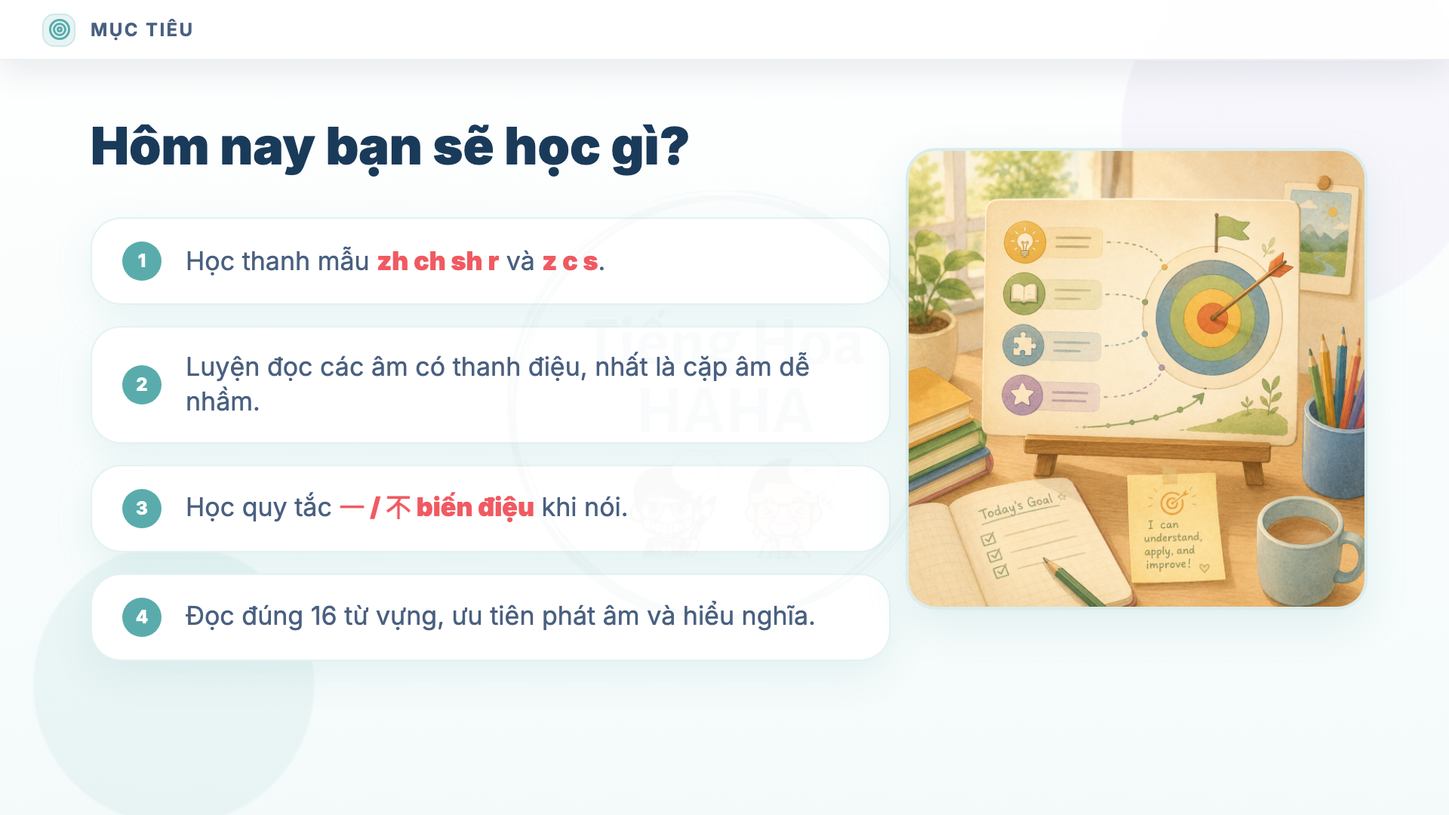
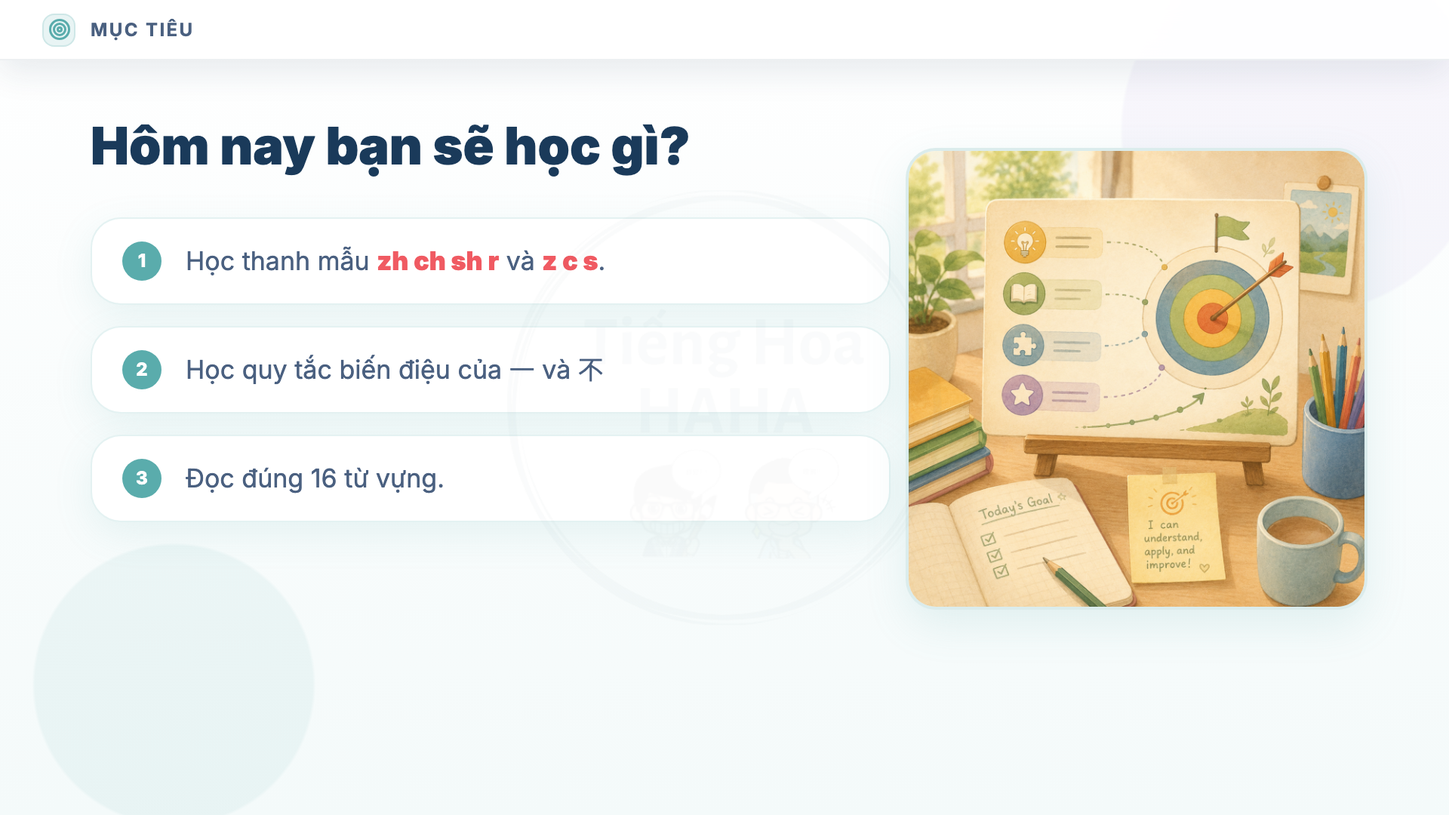
updated images of pinyin lesson 3

Changed region(s): [[0.0625, 0.4278, 0.5938, 0.6417], [0.0625, 0.7333, 0.5625, 0.7944]]

diff --git a/output/pinyin/pinyin-03/slides/44-summary-21-initials.html b/output/pinyin/pinyin-03/slides/44-summary-21-initials.html
@@ -1,4 +1,4 @@
-<!DOCTYPE html><html lang="vi"><head><meta charset="UTF-8"><meta name="viewport" content="width=960,height=540"><title>21 thanh mẫu</title><link href="https://fonts.googleapis.com/css2?family=Inter:wght@400;500;600;700;800;900&family=Noto+Sans+SC:wght@400;700;900&display=swap" rel="stylesheet"><script src="https://unpkg.com/lucide@0.460.0/dist/umd/lucide.min.js"></script><link rel="stylesheet" href="assets/slide-base.css"><style>
+<!DOCTYPE html><html lang="vi"><head><meta charset="UTF-8"><meta name="viewport" content="width=960,height=540"><title>Bảng tổng hợp thanh mẫu pinyin 声母总表</title><link href="https://fonts.googleapis.com/css2?family=Inter:wght@400;500;600;700;800;900&family=Noto+Sans+SC:wght@400;700;900&display=swap" rel="stylesheet"><script src="https://unpkg.com/lucide@0.460.0/dist/umd/lucide.min.js"></script><link rel="stylesheet" href="assets/slide-base.css"><style>
 .content{position:absolute;left:58px;right:58px;top:68px;bottom:42px}
 .title-xl{font-size:34px;line-height:1.12;font-weight:900;color:#1A3A5A}.title-md{font-size:27px;line-height:1.16;font-weight:900;color:#1A3A5A}
 .muted{color:#5F7088}.teal{color:#5AACAC}.purple{color:#7C6BC8}.amber{color:#D59A2A}.red{color:#D85A6A}
@@ -28,4 +28,4 @@
 .listen-head{display:flex;align-items:center;justify-content:center;margin-bottom:16px;text-align:center}.listen-title{font-size:34px;font-weight:900;color:#1A3A5A;line-height:1.14}.final-bank{width:760px;margin:10px auto 22px;background:rgba(255,255,255,.86);border:1px solid rgba(90,172,172,.16);border-radius:16px;text-align:center;padding:10px 18px;box-shadow:0 6px 20px rgba(90,172,172,.08)}.final-bank-title{font-size:18px;color:#5F7088;font-weight:800;margin-bottom:6px}.finals{display:flex;justify-content:space-around;font-size:25px;font-weight:900;color:#3B7DB4}.listen-grid{width:760px;margin:0 auto;display:grid;grid-template-columns:repeat(3,1fr);column-gap:58px;row-gap:24px}.listen-item{font-size:28px;color:#202530;line-height:1.1;white-space:nowrap}.listen-no{font-size:26px;margin-right:8px;color:#202530}.blank{display:inline-block;width:52px;border-bottom:3px solid #202530;transform:translateY(-3px);margin:0 4px}.blank.short{width:44px}.initial-cue{display:inline-block;min-width:48px;text-align:center;font-weight:900;color:#1A3A5A;margin-right:4px}.answer-red{color:#F05A62;font-weight:950}.tone-cued{position:relative;display:inline-block;line-height:1;margin:0 1px;padding-top:12px;vertical-align:baseline}.tone-cue{position:absolute;top:0;left:50%;transform:translateX(-50%);font-size:12px;line-height:1;color:#8A9AB0;font-weight:900;white-space:nowrap}.tone-letter{line-height:1}
 
 .rule-center{position:absolute;left:60px;right:60px;top:92px;bottom:54px;display:flex;flex-direction:column;align-items:center;justify-content:center}.rule-center .title-xl{text-align:center;margin-bottom:28px}.rule-grid{width:100%;display:grid;grid-template-columns:repeat(3,1fr);gap:18px}.rule-card{height:154px;display:grid;grid-template-columns:1fr auto 1fr;align-items:center;justify-items:center;text-align:center;gap:10px}.rule-card .from,.rule-card .to{font-size:46px;line-height:1;font-weight:950;color:#1A3A5A}.rule-card .from{color:#7C6BC8}.rule-card .arrow{font-size:34px;font-weight:950;color:#5AACAC}.closing{position:relative;overflow:hidden;background:linear-gradient(112deg,#F5FAF4 0%,#FFFFFF 46%,#DFF1E8 100%)}.closing:before{content:"";position:absolute;left:34px;top:24px;width:300px;height:246px;border-radius:54% 46% 44% 56%;background:rgba(149,212,187,.23);z-index:0}.closing:after{content:"";position:absolute;right:-54px;bottom:-108px;width:372px;height:294px;border-radius:55% 45% 50% 50%;background:rgba(149,212,187,.20);z-index:0}.closing-card-ref{position:absolute;left:96px;right:84px;top:88px;bottom:62px;border-radius:34px;background:rgba(255,255,255,.96);box-shadow:0 18px 34px rgba(36,50,74,.18);z-index:1;display:flex;flex-direction:column;align-items:center;justify-content:center;text-align:center;padding-left:164px}.closing-door{position:absolute;left:-36px;top:-64px;width:290px;height:266px;object-fit:contain;z-index:2;filter:drop-shadow(0 6px 10px rgba(36,50,74,.10))}.closing-zh{font-family:'Noto Sans SC';font-size:84pt;line-height:.92;font-weight:900;color:#143C68;letter-spacing:0}.closing-sub{margin-top:30px;font-size:29pt;line-height:1.1;font-weight:900;color:#7BC6A7}.closing-next{margin-top:22px;font-size:17pt;line-height:1.25;font-weight:700;color:#6B6F76}
-.summary-content{top:80px}.summary-title{text-align:center;font-size:33px;line-height:1.1;font-weight:900;color:#1A3A5A;margin-bottom:22px}.summary-grid{display:grid;grid-template-columns:repeat(2,1fr);gap:14px 18px}.summary-group{height:84px;display:flex;align-items:center;gap:18px}.summary-no{width:34px;height:34px;border-radius:50%;background:#5AACAC;color:#fff;display:flex;align-items:center;justify-content:center;font-size:15px;font-weight:900;flex:none}.summary-row{display:flex;align-items:center;gap:18px;flex-wrap:wrap}.summary-row span{font-size:34px;line-height:1;font-weight:900;color:#1A3A5A}</style></head><body><div class="slide"><div class="menu-bar"><span class="menu-icon"><i data-lucide="table-2"></i></span><span class="section-label">Bảng tổng hợp</span></div><div class="content summary-content"><div class="summary-title">21 thanh mẫu tiếng Trung</div><div class="summary-grid"><div class="soft-card summary-group"><div class="summary-no">1</div><div class="summary-row"><span>b</span><span>p</span><span>m</span><span>f</span></div></div><div class="soft-card summary-group"><div class="summary-no">2</div><div class="summary-row"><span>d</span><span>t</span><span>n</span><span>l</span></div></div><div class="soft-card summary-group"><div class="summary-no">3</div><div class="summary-row"><span>g</span><span>k</span><span>h</span></div></div><div class="soft-card summary-group"><div class="summary-no">4</div><div class="summary-row"><span>j</span><span>q</span><span>x</span></div></div><div class="soft-card summary-group"><div class="summary-no">5</div><div class="summary-row"><span>zh</span><span>ch</span><span>sh</span><span>r</span></div></div><div class="soft-card summary-group"><div class="summary-no">6</div><div class="summary-row"><span>z</span><span>c</span><span>s</span></div></div></div></div></div><script src="assets/slide-base.js"></script></body></html>
+.summary-table-wrap{position:absolute;left:52px;right:52px;top:70px;bottom:34px}.summary-table-card{height:100%;border-radius:24px;background:linear-gradient(180deg,#FFFFFF 0%,#F7FBFB 100%);border:2px solid rgba(90,172,172,.18);box-shadow:0 14px 34px rgba(26,58,90,.12);padding:14px;box-sizing:border-box}.summary-table{width:100%;height:100%;border-collapse:separate;border-spacing:0 6px;table-layout:fixed}.summary-table th{width:242px;border-radius:17px 0 0 17px;text-align:left;padding:0 18px;color:#1A3A5A;vertical-align:middle}.summary-table th span{display:block;font-size:19px;line-height:1.08;font-weight:900;white-space:nowrap}.summary-table th small{display:block;margin-top:4px;font-family:'Noto Sans SC';font-size:16px;line-height:1;font-weight:900;color:rgba(26,58,90,.62)}.summary-table td{border-radius:0 17px 17px 0;background:#fff;border:1px solid rgba(90,172,172,.14);border-left:0;padding:5px 18px;display:flex;align-items:center;gap:15px;box-sizing:border-box}.summary-table td span{min-width:72px;height:43px;border-radius:14px;background:#FFFFFF;border:1px solid rgba(26,58,90,.10);display:inline-flex;align-items:center;justify-content:center;font-size:31px;line-height:1;font-weight:950;color:#1A3A5A;box-shadow:0 5px 12px rgba(26,58,90,.06)}.summary-table tr.blue th{background:#DDEBF8}.summary-table tr.green th{background:#E4F1E6}.summary-table tr.purple th{background:#EEE8F8}.summary-table tr.amber th{background:#FFF0D2}.summary-table tr.rose th{background:#F9E3EA}.summary-table tr.teal th{background:#DDF1F0}.summary-table tr.blue td{background:#F6FAFE}.summary-table tr.green td{background:#F7FBF7}.summary-table tr.purple td{background:#FAF8FE}.summary-table tr.amber td{background:#FFFCF5}.summary-table tr.rose td{background:#FDF7F9}.summary-table tr.teal td{background:#F6FCFC}</style></head><body><div class="slide"><div class="menu-bar"><span class="menu-icon"><i data-lucide="table-2"></i></span><span class="section-label">Bảng tổng hợp</span></div><div class="summary-table-wrap"><div class="summary-table-card"><table class="summary-table"><tbody><tr class="blue"><th><span>Âm môi</span><small>双唇音</small></th><td><span>b</span><span>p</span><span>m</span><span>f</span></td></tr><tr class="green"><th><span>Âm đầu lưỡi</span><small>舌尖音</small></th><td><span>d</span><span>t</span><span>n</span><span>l</span></td></tr><tr class="purple"><th><span>Âm gốc lưỡi</span><small>舌根音</small></th><td><span>g</span><span>k</span><span>h</span></td></tr><tr class="amber"><th><span>Âm mặt lưỡi</span><small>舌面音</small></th><td><span>j</span><span>q</span><span>x</span></td></tr><tr class="rose"><th><span>Âm uốn lưỡi</span><small>翘舌音</small></th><td><span>zh</span><span>ch</span><span>sh</span><span>r</span></td></tr><tr class="teal"><th><span>Âm đầu lưỡi trước</span><small>平舌音</small></th><td><span>z</span><span>c</span><span>s</span></td></tr></tbody></table></div></div></div><script src="assets/slide-base.js"></script></body></html>

diff --git a/output/pinyin/pinyin-03/slides/38-rule-yi-first-tone.html b/output/pinyin/pinyin-03/slides/38-rule-yi-first-tone.html
@@ -28,4 +28,4 @@
 .listen-head{display:flex;align-items:center;justify-content:center;margin-bottom:16px;text-align:center}.listen-title{font-size:34px;font-weight:900;color:#1A3A5A;line-height:1.14}.final-bank{width:760px;margin:10px auto 22px;background:rgba(255,255,255,.86);border:1px solid rgba(90,172,172,.16);border-radius:16px;text-align:center;padding:10px 18px;box-shadow:0 6px 20px rgba(90,172,172,.08)}.final-bank-title{font-size:18px;color:#5F7088;font-weight:800;margin-bottom:6px}.finals{display:flex;justify-content:space-around;font-size:25px;font-weight:900;color:#3B7DB4}.listen-grid{width:760px;margin:0 auto;display:grid;grid-template-columns:repeat(3,1fr);column-gap:58px;row-gap:24px}.listen-item{font-size:28px;color:#202530;line-height:1.1;white-space:nowrap}.listen-no{font-size:26px;margin-right:8px;color:#202530}.blank{display:inline-block;width:52px;border-bottom:3px solid #202530;transform:translateY(-3px);margin:0 4px}.blank.short{width:44px}.initial-cue{display:inline-block;min-width:48px;text-align:center;font-weight:900;color:#1A3A5A;margin-right:4px}.answer-red{color:#F05A62;font-weight:950}.tone-cued{position:relative;display:inline-block;line-height:1;margin:0 1px;padding-top:12px;vertical-align:baseline}.tone-cue{position:absolute;top:0;left:50%;transform:translateX(-50%);font-size:12px;line-height:1;color:#8A9AB0;font-weight:900;white-space:nowrap}.tone-letter{line-height:1}
 
 .rule-center{position:absolute;left:60px;right:60px;top:92px;bottom:54px;display:flex;flex-direction:column;align-items:center;justify-content:center}.rule-center .title-xl{text-align:center;margin-bottom:28px}.rule-grid{width:100%;display:grid;grid-template-columns:repeat(3,1fr);gap:18px}.rule-card{height:154px;display:grid;grid-template-columns:1fr auto 1fr;align-items:center;justify-items:center;text-align:center;gap:10px}.rule-card .from,.rule-card .to{font-size:46px;line-height:1;font-weight:950;color:#1A3A5A}.rule-card .from{color:#7C6BC8}.rule-card .arrow{font-size:34px;font-weight:950;color:#5AACAC}.closing{position:relative;overflow:hidden;background:linear-gradient(112deg,#F5FAF4 0%,#FFFFFF 46%,#DFF1E8 100%)}.closing:before{content:"";position:absolute;left:34px;top:24px;width:300px;height:246px;border-radius:54% 46% 44% 56%;background:rgba(149,212,187,.23);z-index:0}.closing:after{content:"";position:absolute;right:-54px;bottom:-108px;width:372px;height:294px;border-radius:55% 45% 50% 50%;background:rgba(149,212,187,.20);z-index:0}.closing-card-ref{position:absolute;left:96px;right:84px;top:88px;bottom:62px;border-radius:34px;background:rgba(255,255,255,.96);box-shadow:0 18px 34px rgba(36,50,74,.18);z-index:1;display:flex;flex-direction:column;align-items:center;justify-content:center;text-align:center;padding-left:164px}.closing-door{position:absolute;left:-36px;top:-64px;width:290px;height:266px;object-fit:contain;z-index:2;filter:drop-shadow(0 6px 10px rgba(36,50,74,.10))}.closing-zh{font-family:'Noto Sans SC';font-size:84pt;line-height:.92;font-weight:900;color:#143C68;letter-spacing:0}.closing-sub{margin-top:30px;font-size:29pt;line-height:1.1;font-weight:900;color:#7BC6A7}.closing-next{margin-top:22px;font-size:17pt;line-height:1.25;font-weight:700;color:#6B6F76}
-.yi-first-content{top:86px}.yi-first-title{font-size:52px;line-height:1;font-weight:900;color:#1A3A5A;text-align:left}.yi-first-title span{font-family:'Noto Sans SC';color:#D85A6A}.yi-first-title b{color:#D85A6A}.yi-first-grid{display:grid;grid-template-columns:1fr 1fr;gap:22px;margin-top:24px}.yi-first-card{height:300px;padding:24px 26px}.yi-first-card-title{font-size:30px;line-height:1.1;font-weight:900;color:#1A3A5A}.yi-first-note{font-size:17px;line-height:1.35;font-weight:800;color:#5F7088;margin-top:8px}.yi-first-examples{display:flex;flex-direction:column;gap:12px;margin-top:18px}.yi-first-example{height:54px;border-radius:14px;background:#F7FBFB;border:1px solid rgba(90,172,172,.28);display:flex;align-items:center;justify-content:space-between;padding:0 18px}.yi-first-example .pin{font-size:21px;line-height:1;font-weight:900;color:#D85A6A}.yi-first-example .han{font-family:'Noto Sans SC';font-size:28px;line-height:1;font-weight:900;color:#1A3A5A}</style></head><body><div class="slide"><div class="menu-bar"><span class="menu-icon"><i data-lucide="wand-sparkles"></i></span><span class="section-label">Biến điệu</span></div><div class="content yi-first-content"><div class="yi-first-title">Khi nào <span>一</span> đọc thanh 1?</div><div class="yi-first-grid"><div class="soft-card yi-first-card"><div class="yi-first-card-title">Đọc thứ tự</div><div class="yi-first-note">Từ chỉ thứ tự.</div><div class="yi-first-examples"><div class="yi-first-example"><div class="pin">xīngqīyī</div><div class="han">星期一</div></div><div class="yi-first-example"><div class="pin">dìyī</div><div class="han">第一</div></div><div class="yi-first-example"><div class="pin">yīlóu</div><div class="han">一楼</div></div></div></div><div class="soft-card yi-first-card"><div class="yi-first-card-title">Đọc từng số</div><div class="yi-first-note">Khi đọc số điện thoại, năm, mã số.</div><div class="yi-first-examples"><div class="yi-first-example"><div class="pin">yī, sān, jiǔ...</div><div class="han">1, 3, 9...</div></div><div class="yi-first-example"><div class="pin">èr líng yī liù</div><div class="han">2016</div></div></div></div></div></div></div><script src="assets/slide-base.js"></script></body></html>
+.yi-first-content{top:90px}.yi-first-title{font-size:34px;line-height:1.1;font-weight:900;color:#1A3A5A;text-align:left}.yi-first-title span{font-family:'Noto Sans SC';color:#D85A6A}.yi-first-title b{color:#D85A6A}.yi-first-grid{display:grid;grid-template-columns:1fr 1fr;gap:20px;margin-top:20px}.yi-first-card{height:268px;padding:20px 22px}.yi-first-card-title{font-size:22px;line-height:1.12;font-weight:900;color:#1A3A5A}.yi-first-note{font-size:14px;line-height:1.35;font-weight:750;color:#5F7088;margin-top:7px}.yi-first-examples{display:flex;flex-direction:column;gap:9px;margin-top:14px}.yi-first-example{height:43px;border-radius:13px;background:#F7FBFB;border:1px solid rgba(90,172,172,.28);display:flex;align-items:center;justify-content:space-between;padding:0 15px}.yi-first-example .pin{font-size:16px;line-height:1;font-weight:850;color:#D85A6A}.yi-first-example .han{font-family:'Noto Sans SC';font-size:22px;line-height:1;font-weight:900;color:#1A3A5A}</style></head><body><div class="slide"><div class="menu-bar"><span class="menu-icon"><i data-lucide="wand-sparkles"></i></span><span class="section-label">Biến điệu</span></div><div class="content yi-first-content"><div class="yi-first-title">Khi nào <span>一</span> đọc thanh 1?</div><div class="yi-first-grid"><div class="soft-card yi-first-card"><div class="yi-first-card-title">Đọc thứ tự</div><div class="yi-first-note">Từ chỉ thứ tự.</div><div class="yi-first-examples"><div class="yi-first-example"><div class="pin">xīngqīyī</div><div class="han">星期一</div></div><div class="yi-first-example"><div class="pin">dìyī</div><div class="han">第一</div></div><div class="yi-first-example"><div class="pin">yīlóu</div><div class="han">一楼</div></div></div></div><div class="soft-card yi-first-card"><div class="yi-first-card-title">Đọc từng số</div><div class="yi-first-note">Khi đọc số điện thoại, năm, mã số.</div><div class="yi-first-examples"><div class="yi-first-example"><div class="pin">yī, sān, jiǔ...</div><div class="han">1, 3, 9...</div></div><div class="yi-first-example"><div class="pin">èr líng yī liù</div><div class="han">2016</div></div></div></div></div></div></div><script src="assets/slide-base.js"></script></body></html>

diff --git a/output/pinyin/pinyin-03/slides/43-divider-summary-initials.html b/output/pinyin/pinyin-03/slides/43-divider-summary-initials.html
@@ -1,4 +1,4 @@
-<!DOCTYPE html><html lang="vi"><head><meta charset="UTF-8"><meta name="viewport" content="width=960,height=540"><title>21 thanh mẫu</title><link href="https://fonts.googleapis.com/css2?family=Inter:wght@400;500;600;700;800;900&family=Noto+Sans+SC:wght@400;700;900&display=swap" rel="stylesheet"><script src="https://unpkg.com/lucide@0.460.0/dist/umd/lucide.min.js"></script><link rel="stylesheet" href="assets/slide-base.css"><style>
+<!DOCTYPE html><html lang="vi"><head><meta charset="UTF-8"><meta name="viewport" content="width=960,height=540"><title>Bảng tổng hợp thanh mẫu pinyin 声母总表</title><link href="https://fonts.googleapis.com/css2?family=Inter:wght@400;500;600;700;800;900&family=Noto+Sans+SC:wght@400;700;900&display=swap" rel="stylesheet"><script src="https://unpkg.com/lucide@0.460.0/dist/umd/lucide.min.js"></script><link rel="stylesheet" href="assets/slide-base.css"><style>
 .content{position:absolute;left:58px;right:58px;top:68px;bottom:42px}
 .title-xl{font-size:34px;line-height:1.12;font-weight:900;color:#1A3A5A}.title-md{font-size:27px;line-height:1.16;font-weight:900;color:#1A3A5A}
 .muted{color:#5F7088}.teal{color:#5AACAC}.purple{color:#7C6BC8}.amber{color:#D59A2A}.red{color:#D85A6A}
@@ -28,4 +28,4 @@
 .listen-head{display:flex;align-items:center;justify-content:center;margin-bottom:16px;text-align:center}.listen-title{font-size:34px;font-weight:900;color:#1A3A5A;line-height:1.14}.final-bank{width:760px;margin:10px auto 22px;background:rgba(255,255,255,.86);border:1px solid rgba(90,172,172,.16);border-radius:16px;text-align:center;padding:10px 18px;box-shadow:0 6px 20px rgba(90,172,172,.08)}.final-bank-title{font-size:18px;color:#5F7088;font-weight:800;margin-bottom:6px}.finals{display:flex;justify-content:space-around;font-size:25px;font-weight:900;color:#3B7DB4}.listen-grid{width:760px;margin:0 auto;display:grid;grid-template-columns:repeat(3,1fr);column-gap:58px;row-gap:24px}.listen-item{font-size:28px;color:#202530;line-height:1.1;white-space:nowrap}.listen-no{font-size:26px;margin-right:8px;color:#202530}.blank{display:inline-block;width:52px;border-bottom:3px solid #202530;transform:translateY(-3px);margin:0 4px}.blank.short{width:44px}.initial-cue{display:inline-block;min-width:48px;text-align:center;font-weight:900;color:#1A3A5A;margin-right:4px}.answer-red{color:#F05A62;font-weight:950}.tone-cued{position:relative;display:inline-block;line-height:1;margin:0 1px;padding-top:12px;vertical-align:baseline}.tone-cue{position:absolute;top:0;left:50%;transform:translateX(-50%);font-size:12px;line-height:1;color:#8A9AB0;font-weight:900;white-space:nowrap}.tone-letter{line-height:1}
 
 .rule-center{position:absolute;left:60px;right:60px;top:92px;bottom:54px;display:flex;flex-direction:column;align-items:center;justify-content:center}.rule-center .title-xl{text-align:center;margin-bottom:28px}.rule-grid{width:100%;display:grid;grid-template-columns:repeat(3,1fr);gap:18px}.rule-card{height:154px;display:grid;grid-template-columns:1fr auto 1fr;align-items:center;justify-items:center;text-align:center;gap:10px}.rule-card .from,.rule-card .to{font-size:46px;line-height:1;font-weight:950;color:#1A3A5A}.rule-card .from{color:#7C6BC8}.rule-card .arrow{font-size:34px;font-weight:950;color:#5AACAC}.closing{position:relative;overflow:hidden;background:linear-gradient(112deg,#F5FAF4 0%,#FFFFFF 46%,#DFF1E8 100%)}.closing:before{content:"";position:absolute;left:34px;top:24px;width:300px;height:246px;border-radius:54% 46% 44% 56%;background:rgba(149,212,187,.23);z-index:0}.closing:after{content:"";position:absolute;right:-54px;bottom:-108px;width:372px;height:294px;border-radius:55% 45% 50% 50%;background:rgba(149,212,187,.20);z-index:0}.closing-card-ref{position:absolute;left:96px;right:84px;top:88px;bottom:62px;border-radius:34px;background:rgba(255,255,255,.96);box-shadow:0 18px 34px rgba(36,50,74,.18);z-index:1;display:flex;flex-direction:column;align-items:center;justify-content:center;text-align:center;padding-left:164px}.closing-door{position:absolute;left:-36px;top:-64px;width:290px;height:266px;object-fit:contain;z-index:2;filter:drop-shadow(0 6px 10px rgba(36,50,74,.10))}.closing-zh{font-family:'Noto Sans SC';font-size:84pt;line-height:.92;font-weight:900;color:#143C68;letter-spacing:0}.closing-sub{margin-top:30px;font-size:29pt;line-height:1.1;font-weight:900;color:#7BC6A7}.closing-next{margin-top:22px;font-size:17pt;line-height:1.25;font-weight:700;color:#6B6F76}
-</style></head><body><div class="slide"><div class="menu-bar"><span class="menu-icon"><i data-lucide="table-2"></i></span><span class="section-label">BẢNG TỔNG HỢP</span></div><div class="divider-left"><div class="divider-kicker">BẢNG TỔNG HỢP</div><div class="divider-zh">总表</div><div class="divider-line"></div></div><div class="divider-photo"><img src="assets/photos/divider-sounds.png" alt=""></div></div><script src="assets/slide-base.js"></script></body></html>
+.divider-summary-special .divider-kicker{font-size:21px;line-height:1.16;text-transform:none;letter-spacing:0;max-width:390px}.divider-summary-special .divider-zh{font-size:56px;white-space:nowrap}</style></head><body><div class="slide"><div class="menu-bar"><span class="menu-icon"><i data-lucide="table-2"></i></span><span class="section-label">Bảng tổng hợp</span></div><div class="divider-left divider-summary-special"><div class="divider-kicker">bảng tổng hợp thanh mẫu pinyin</div><div class="divider-zh">声母总表</div><div class="divider-line"></div></div><div class="divider-photo"><img src="assets/photos/divider-pinyin-summary-pinyin-03.png" alt=""></div></div><script src="assets/slide-base.js"></script></body></html>

diff --git a/output/pinyin/pinyin-03/slides/02-objectives.html b/output/pinyin/pinyin-03/slides/02-objectives.html
@@ -28,4 +28,4 @@
 .listen-head{display:flex;align-items:center;justify-content:center;margin-bottom:16px;text-align:center}.listen-title{font-size:34px;font-weight:900;color:#1A3A5A;line-height:1.14}.final-bank{width:760px;margin:10px auto 22px;background:rgba(255,255,255,.86);border:1px solid rgba(90,172,172,.16);border-radius:16px;text-align:center;padding:10px 18px;box-shadow:0 6px 20px rgba(90,172,172,.08)}.final-bank-title{font-size:18px;color:#5F7088;font-weight:800;margin-bottom:6px}.finals{display:flex;justify-content:space-around;font-size:25px;font-weight:900;color:#3B7DB4}.listen-grid{width:760px;margin:0 auto;display:grid;grid-template-columns:repeat(3,1fr);column-gap:58px;row-gap:24px}.listen-item{font-size:28px;color:#202530;line-height:1.1;white-space:nowrap}.listen-no{font-size:26px;margin-right:8px;color:#202530}.blank{display:inline-block;width:52px;border-bottom:3px solid #202530;transform:translateY(-3px);margin:0 4px}.blank.short{width:44px}.initial-cue{display:inline-block;min-width:48px;text-align:center;font-weight:900;color:#1A3A5A;margin-right:4px}.answer-red{color:#F05A62;font-weight:950}.tone-cued{position:relative;display:inline-block;line-height:1;margin:0 1px;padding-top:12px;vertical-align:baseline}.tone-cue{position:absolute;top:0;left:50%;transform:translateX(-50%);font-size:12px;line-height:1;color:#8A9AB0;font-weight:900;white-space:nowrap}.tone-letter{line-height:1}
 
 .rule-center{position:absolute;left:60px;right:60px;top:92px;bottom:54px;display:flex;flex-direction:column;align-items:center;justify-content:center}.rule-center .title-xl{text-align:center;margin-bottom:28px}.rule-grid{width:100%;display:grid;grid-template-columns:repeat(3,1fr);gap:18px}.rule-card{height:154px;display:grid;grid-template-columns:1fr auto 1fr;align-items:center;justify-items:center;text-align:center;gap:10px}.rule-card .from,.rule-card .to{font-size:46px;line-height:1;font-weight:950;color:#1A3A5A}.rule-card .from{color:#7C6BC8}.rule-card .arrow{font-size:34px;font-weight:950;color:#5AACAC}.closing{position:relative;overflow:hidden;background:linear-gradient(112deg,#F5FAF4 0%,#FFFFFF 46%,#DFF1E8 100%)}.closing:before{content:"";position:absolute;left:34px;top:24px;width:300px;height:246px;border-radius:54% 46% 44% 56%;background:rgba(149,212,187,.23);z-index:0}.closing:after{content:"";position:absolute;right:-54px;bottom:-108px;width:372px;height:294px;border-radius:55% 45% 50% 50%;background:rgba(149,212,187,.20);z-index:0}.closing-card-ref{position:absolute;left:96px;right:84px;top:88px;bottom:62px;border-radius:34px;background:rgba(255,255,255,.96);box-shadow:0 18px 34px rgba(36,50,74,.18);z-index:1;display:flex;flex-direction:column;align-items:center;justify-content:center;text-align:center;padding-left:164px}.closing-door{position:absolute;left:-36px;top:-64px;width:290px;height:266px;object-fit:contain;z-index:2;filter:drop-shadow(0 6px 10px rgba(36,50,74,.10))}.closing-zh{font-family:'Noto Sans SC';font-size:84pt;line-height:.92;font-weight:900;color:#143C68;letter-spacing:0}.closing-sub{margin-top:30px;font-size:29pt;line-height:1.1;font-weight:900;color:#7BC6A7}.closing-next{margin-top:22px;font-size:17pt;line-height:1.25;font-weight:700;color:#6B6F76}
-</style></head><body><div class="slide"><div class="menu-bar"><span class="menu-icon"><i data-lucide="target"></i></span><span class="section-label">MỤC TIÊU</span></div><div class="lesson-goal-left"><div class="lesson-goal-title">Hôm nay bạn sẽ học gì?</div><div class="lesson-goal-cards"><div class="lesson-goal soft-card"><div class="lesson-goal-num">1</div><div>Học thanh mẫu <strong class="goal-hot">zh ch sh r</strong> và <strong class="goal-hot">z c s</strong>.</div></div><div class="lesson-goal soft-card"><div class="lesson-goal-num">2</div><div>Luyện đọc các âm có thanh điệu, nhất là cặp âm dễ nhầm.</div></div><div class="lesson-goal soft-card"><div class="lesson-goal-num">3</div><div>Học quy tắc <strong class="goal-hot">一 / 不 biến điệu</strong> khi nói.</div></div><div class="lesson-goal soft-card"><div class="lesson-goal-num">4</div><div>Đọc đúng 16 từ vựng.</div></div></div></div><div class="lesson-goal-right"><img src="assets/sample-images/objectives.png" alt=""></div></div><script src="assets/slide-base.js"></script></body></html>
+</style></head><body><div class="slide"><div class="menu-bar"><span class="menu-icon"><i data-lucide="target"></i></span><span class="section-label">MỤC TIÊU</span></div><div class="lesson-goal-left"><div class="lesson-goal-title">Hôm nay bạn sẽ học gì?</div><div class="lesson-goal-cards"><div class="lesson-goal soft-card"><div class="lesson-goal-num">1</div><div>Học thanh mẫu <strong class="goal-hot">zh ch sh r</strong> và <strong class="goal-hot">z c s</strong>.</div></div><div class="lesson-goal soft-card"><div class="lesson-goal-num">2</div><div>Học quy tắc biến điệu của 一 và 不</div></div><div class="lesson-goal soft-card"><div class="lesson-goal-num">3</div><div>Đọc đúng 16 từ vựng.</div></div></div></div><div class="lesson-goal-right"><img src="assets/sample-images/objectives.png" alt=""></div></div><script src="assets/slide-base.js"></script></body></html>
